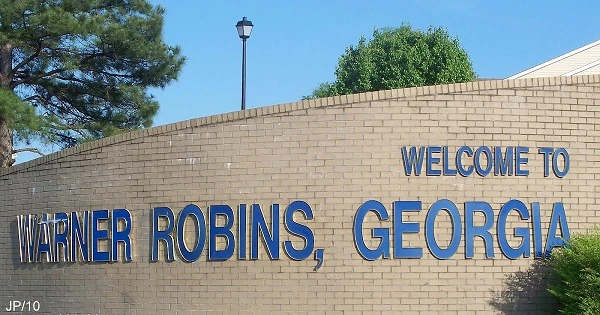
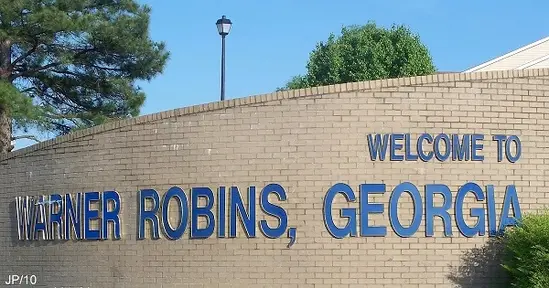
changed size of images on homepage, added button aria label

diff --git a/chamber/directory.html b/chamber/directory.html
@@ -29,7 +29,7 @@
             <li><a href="directory.html">Directory</a></li>
             <li><a href="./join.html">Join</a></li>
             </ul>
-        <button id="hamburger-toggle"  class="hamburger">
+        <button id="hamburger-toggle"  class="hamburger" aria-label="Toggle Menu">
             <span class="icon-open">    
                 <svg xmlns="http://www.w3.org/2000/svg" class="icon icon-tabler icon-tabler-menu-2" width="44" height="44" viewBox="0 0 24 24" stroke-width="1.5" stroke="#2c3e50" fill="none" stroke-linecap="round" stroke-linejoin="round">
                     <path stroke="none" d="M0 0h24v24H0z" fill="none"/>

diff --git a/chamber/index.html b/chamber/index.html
@@ -84,7 +84,7 @@
               
                 <button id="see-more">Calendar</button>
              </div>
-             <div id="welcome-sign"><img src="./images/WR-welcome-sign.webp"  alt="Warner Robins city welcome sign" class="responsive-image"></div>
+             <div id="welcome-sign"><img src="./images/WR-welcome-sign.webp" width="600" height="315" alt="Warner Robins city welcome sign" class="responsive-image"></div>
              <div id="chamber-weather">
                 <h2 id="weatherToday">Weather</h2>
                 <h3 id="place">Current Temperature</h3>

diff --git a/chamber/styles/base.css b/chamber/styles/base.css
@@ -822,6 +822,18 @@ article p  {
  #hero-msg {
   padding: 20px; 
 }
+
+#welcome-sign {
+  display: none;
+}
+
+#current-events {
+  max-width: 100%;
+}
+
+#chamber-weather {
+  max-width: 100%;
+}
 #discover-container {
   grid-column: 1 / -1;
   gap: 10px;

diff --git a/chamber/styles/larger.css b/chamber/styles/larger.css
@@ -1,3 +1,3 @@
-@media (min-width: 1200px) {
+@media screen and (min-width: 1200px) {
     
 }
